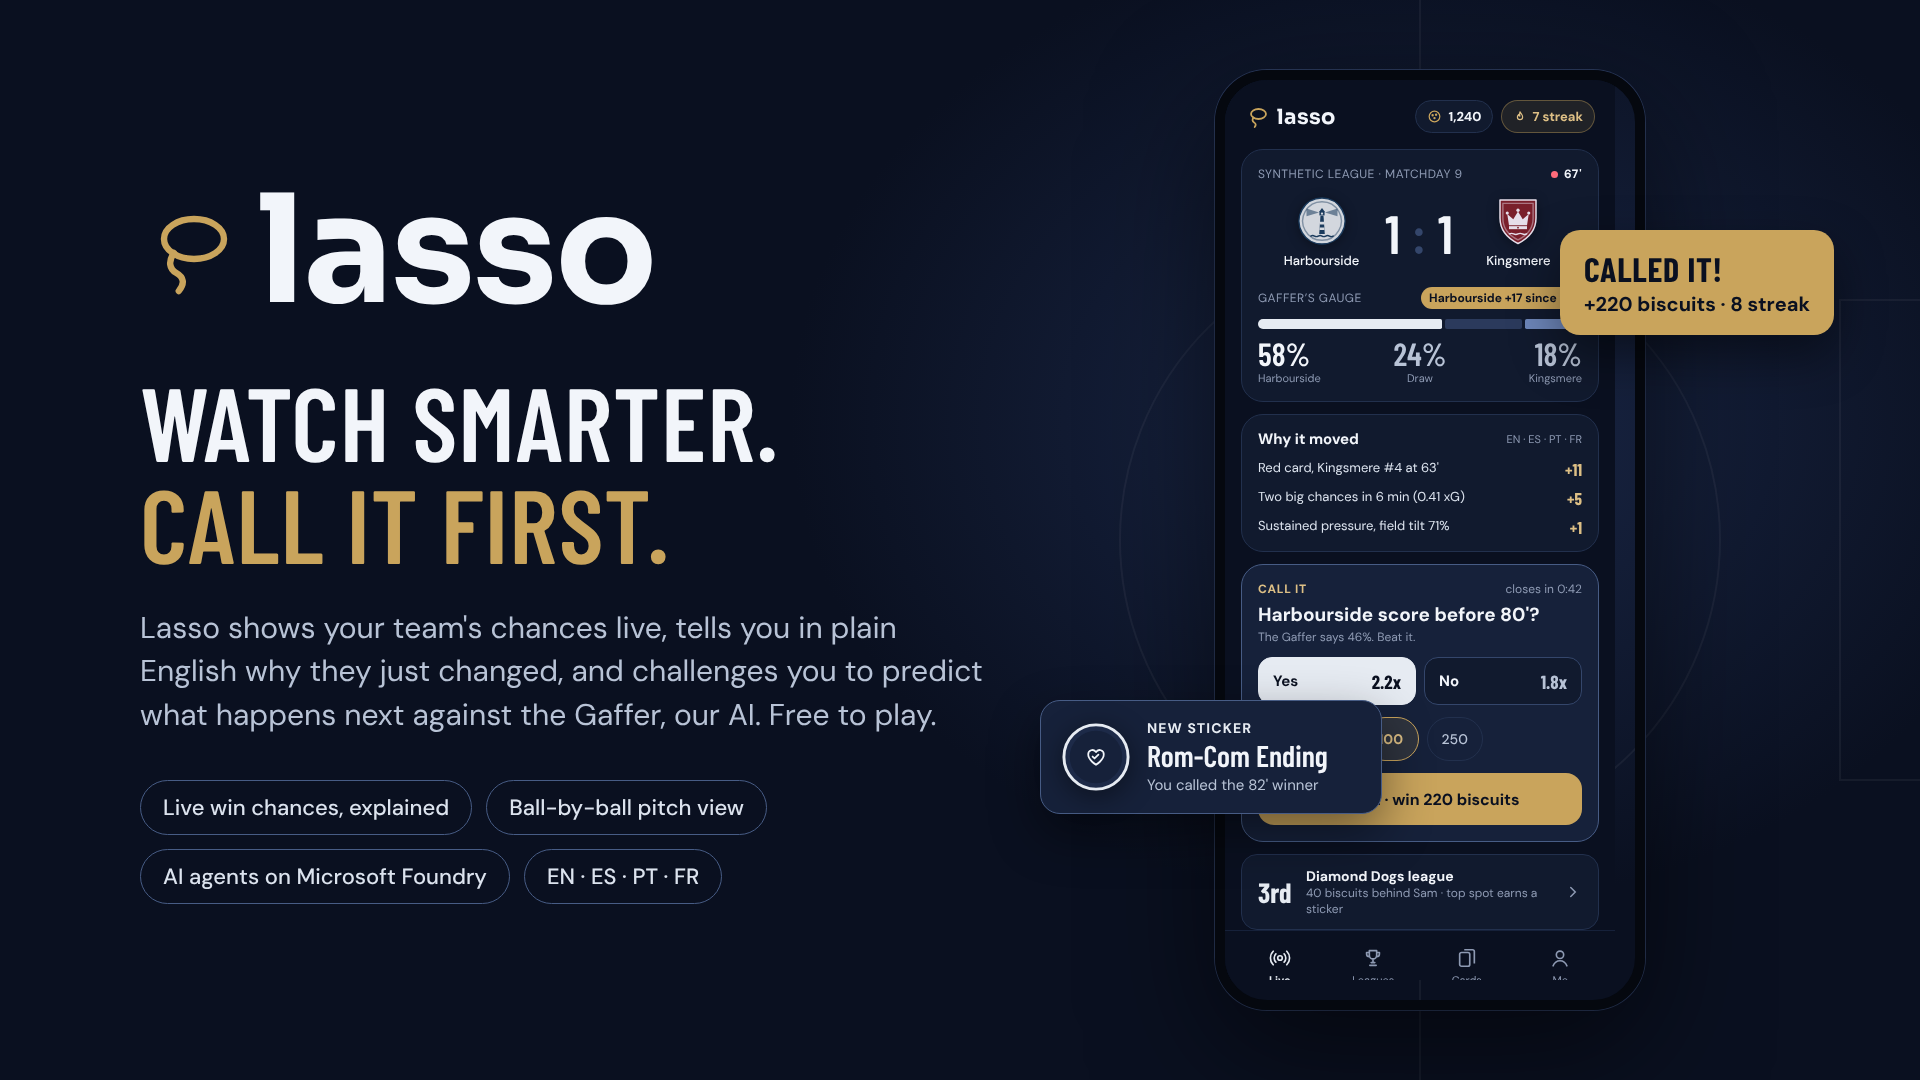
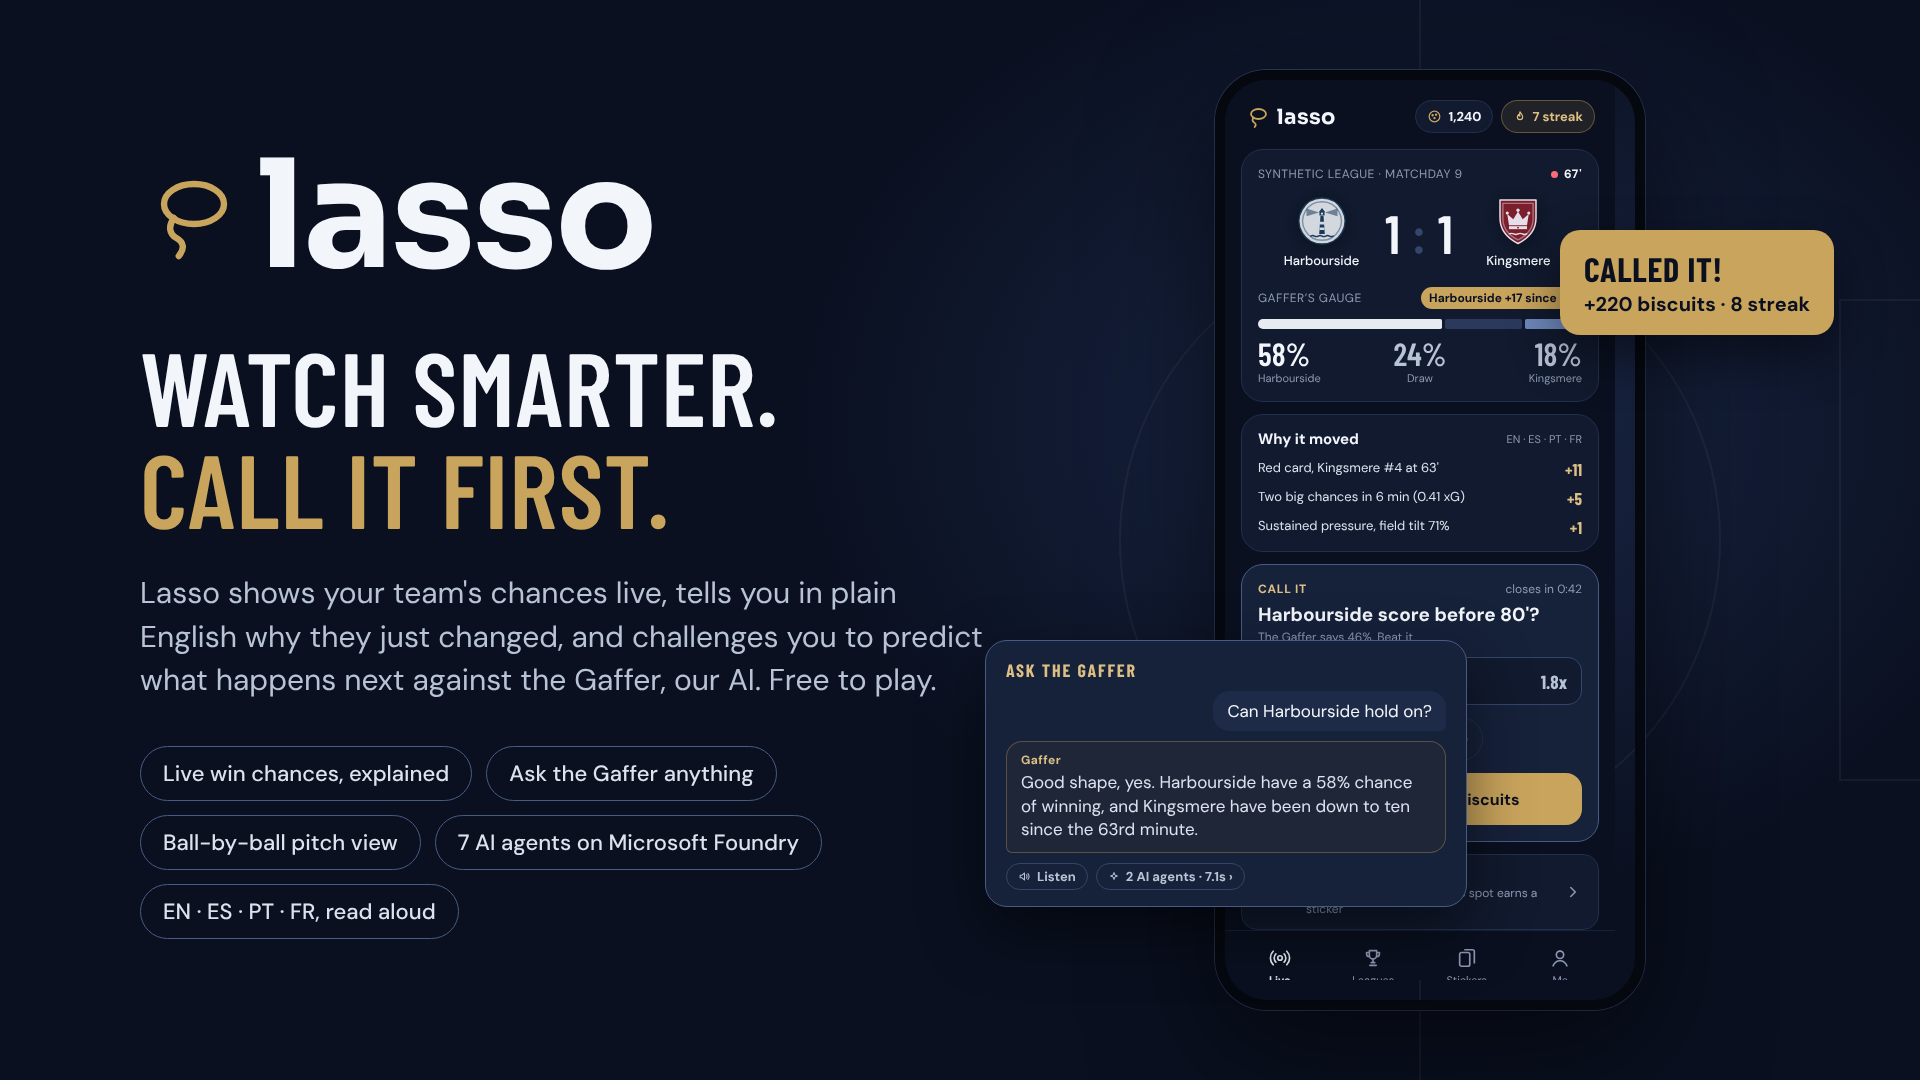
Submission images: seven agents, Ask the Gaffer, Listen, Touch the sign
Cover: an Ask the Gaffer exchange (with Listen and the agents line) replaces
the sticker pop-up; the chips add Ask the Gaffer, seven agents and read
aloud; the phone's nav says Stickers.

How it works: "Seven AI agents", with a new Two AI teams panel showing the
Match Director's two rounds and the Press Room's Scout-to-Gaffer hand-off;
Render adds read-aloud and AI Speech; Personalize adds answers to your own
questions; the tiles add the evaluation result and in-app tracing.

Beat the Gaffer: the BELIEVE panel describes Touch the sign and its reward.
The Gaffer image is unchanged (the model hasn't changed).

Claude-Session: https://claude.ai/code/session_01VjVdm676emTWmPPf7gxrFH

Changed region(s): [[0.0625, 0.1222, 0.5938, 0.6722], [0.5, 0.5806, 0.7812, 0.8556], [0.0625, 0.7028, 0.4062, 0.8556]]

diff --git a/README.md b/README.md
@@ -27,7 +27,7 @@ Lasso is a live, multi-agent match companion for phones and broadcasts, built fo
 ![Lasso: watch smarter, call it first](docs/img/submission-1-cover.png)
 
 <p>
-  <img src="docs/img/submission-2-how-it-works.png" width="32%" alt="How Lasso works: five agents, one live pipeline" />
+  <img src="docs/img/submission-2-how-it-works.png" width="32%" alt="How Lasso works: seven agents in two teams, one live pipeline" />
   <img src="docs/img/submission-3-the-gaffer.png" width="32%" alt="The Gaffer reads the game: honest win chances, tested on a season it never saw" />
   <img src="docs/img/submission-4-beat-the-gaffer.png" width="32%" alt="Beat the Gaffer: call it first and fill your sticker book" />
 </p>
